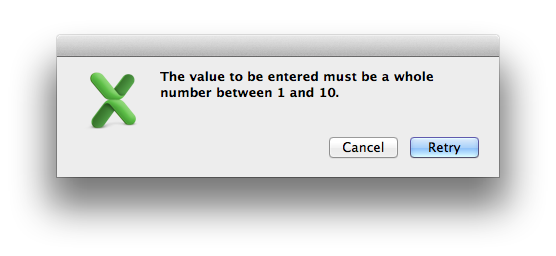
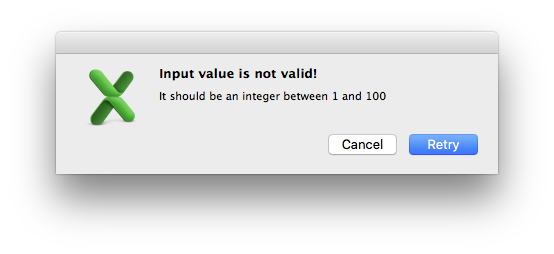
Minor changes to data validation docs

diff --git a/dev/docs/source/working_with_data_validation.rst b/dev/docs/source/working_with_data_validation.rst
@@ -5,7 +5,7 @@ Working with Data Validation
 
 Data validation is a feature of Excel which allows you to restrict the data
 that a user enters in a cell and to display associated help and warning
-messages. It also allows you to restrict input to values in a drop down list.
+messages. It also allows you to restrict input to values in a dropdown list.
 
 A typical use case might be to restrict data in a cell to integer values in a
 certain range, to provide a help message to indicate the required value and to
@@ -24,7 +24,7 @@ XlsxWriter we could do that as follows::
 If the user inputs a value that doesn't match the specified criteria an error
 message is displayed:
 
-.. image:: _images/data_validate2.png
+.. image:: _images/data_validate4.png
 
 
 For more information on data validation see the Microsoft support article
@@ -136,8 +136,8 @@ criteria
 ********
 
 The ``criteria`` parameter is used to set the criteria by which the data in the
-cell is validated. It is almost always required except for the ``list`` and
-``custom`` validate options. It has no default value::
+cell is validated. It is almost always required except for the ``list``,
+``custom`` and ``any`` validate options. It has no default value::
 
     worksheet.data_validation('A1', {'validate': 'integer',
                                      'criteria': '>',
@@ -175,15 +175,14 @@ above, or the more common symbolic alternatives. The following are equivalent::
                                      'criteria': 'greater than',
                                      'value': 100})
 
-The ``list`` and ``custom`` validate options don't require a ``criteria``. If
-you specify one it will be ignored::
+The ``list``, ``custom`` and ``any`` validate options don't require a
+``criteria``. If you specify one it will be ignored::
 
     worksheet.data_validation('B13', {'validate': 'list',
                                       'source': ['open', 'high', 'close']})
 
     worksheet.data_validation('B23', {'validate': 'custom',
                                       'value': '=AND(F5=50,G5=60)'})
-
 
 value, minimum, source
 **********************
@@ -193,20 +192,31 @@ The ``value`` parameter is used to set the limiting value to which the
 You can also use the synonyms ``minimum`` or ``source`` to make the validation
 a little clearer and closer to Excel's description of the parameter::
 
-    # Use 'value'
+    # Using 'value'.
     worksheet.data_validation('A1', {'validate': 'integer',
                                      'criteria': 'greater than',
                                      'value': 100})
 
-    # Use 'minimum'
+    # Using 'minimum'.
     worksheet.data_validation('B11', {'validate': 'decimal',
                                       'criteria': 'between',
                                       'minimum': 0.1,
                                       'maximum': 0.5})
 
-    # Use 'source'
+    # Using 'source'.
     worksheet.data_validation('B10', {'validate': 'list',
                                       'source': '=$E$4:$G$4'})
+
+    # Using 'source' with a string list.
+    worksheet.data_validation('B13', {'validate': 'list',
+                                      'source': ['open', 'high', 'close']})
+
+
+Note, when using the ``list`` validation with a list of strings, like in the
+last example above, Excel stores the strings internally as a Comma Separated
+Variable string. The total length for this string, including commas, cannot
+exceed the Excel limit of 255 characters. For longer sets of data you should
+use a range reference like the prior example above.
 
 
 maximum
@@ -308,7 +318,11 @@ the cell.". A non-default error message can be displayed as follows::
                                       'input_title': 'Enter an integer:',
                                       'input_message': 'between 1 and 100',
                                       'error_title': 'Input value not valid!',
-                                      'error_message': 'Sorry.'})
+                                      'error_message': 'It should be an integer between 1 and 100'})
+
+Which give the following message:
+
+.. image:: _images/data_validate2.png
 
 The message can be split over several lines using newlines. The maximum message
 length is 255 characters.
